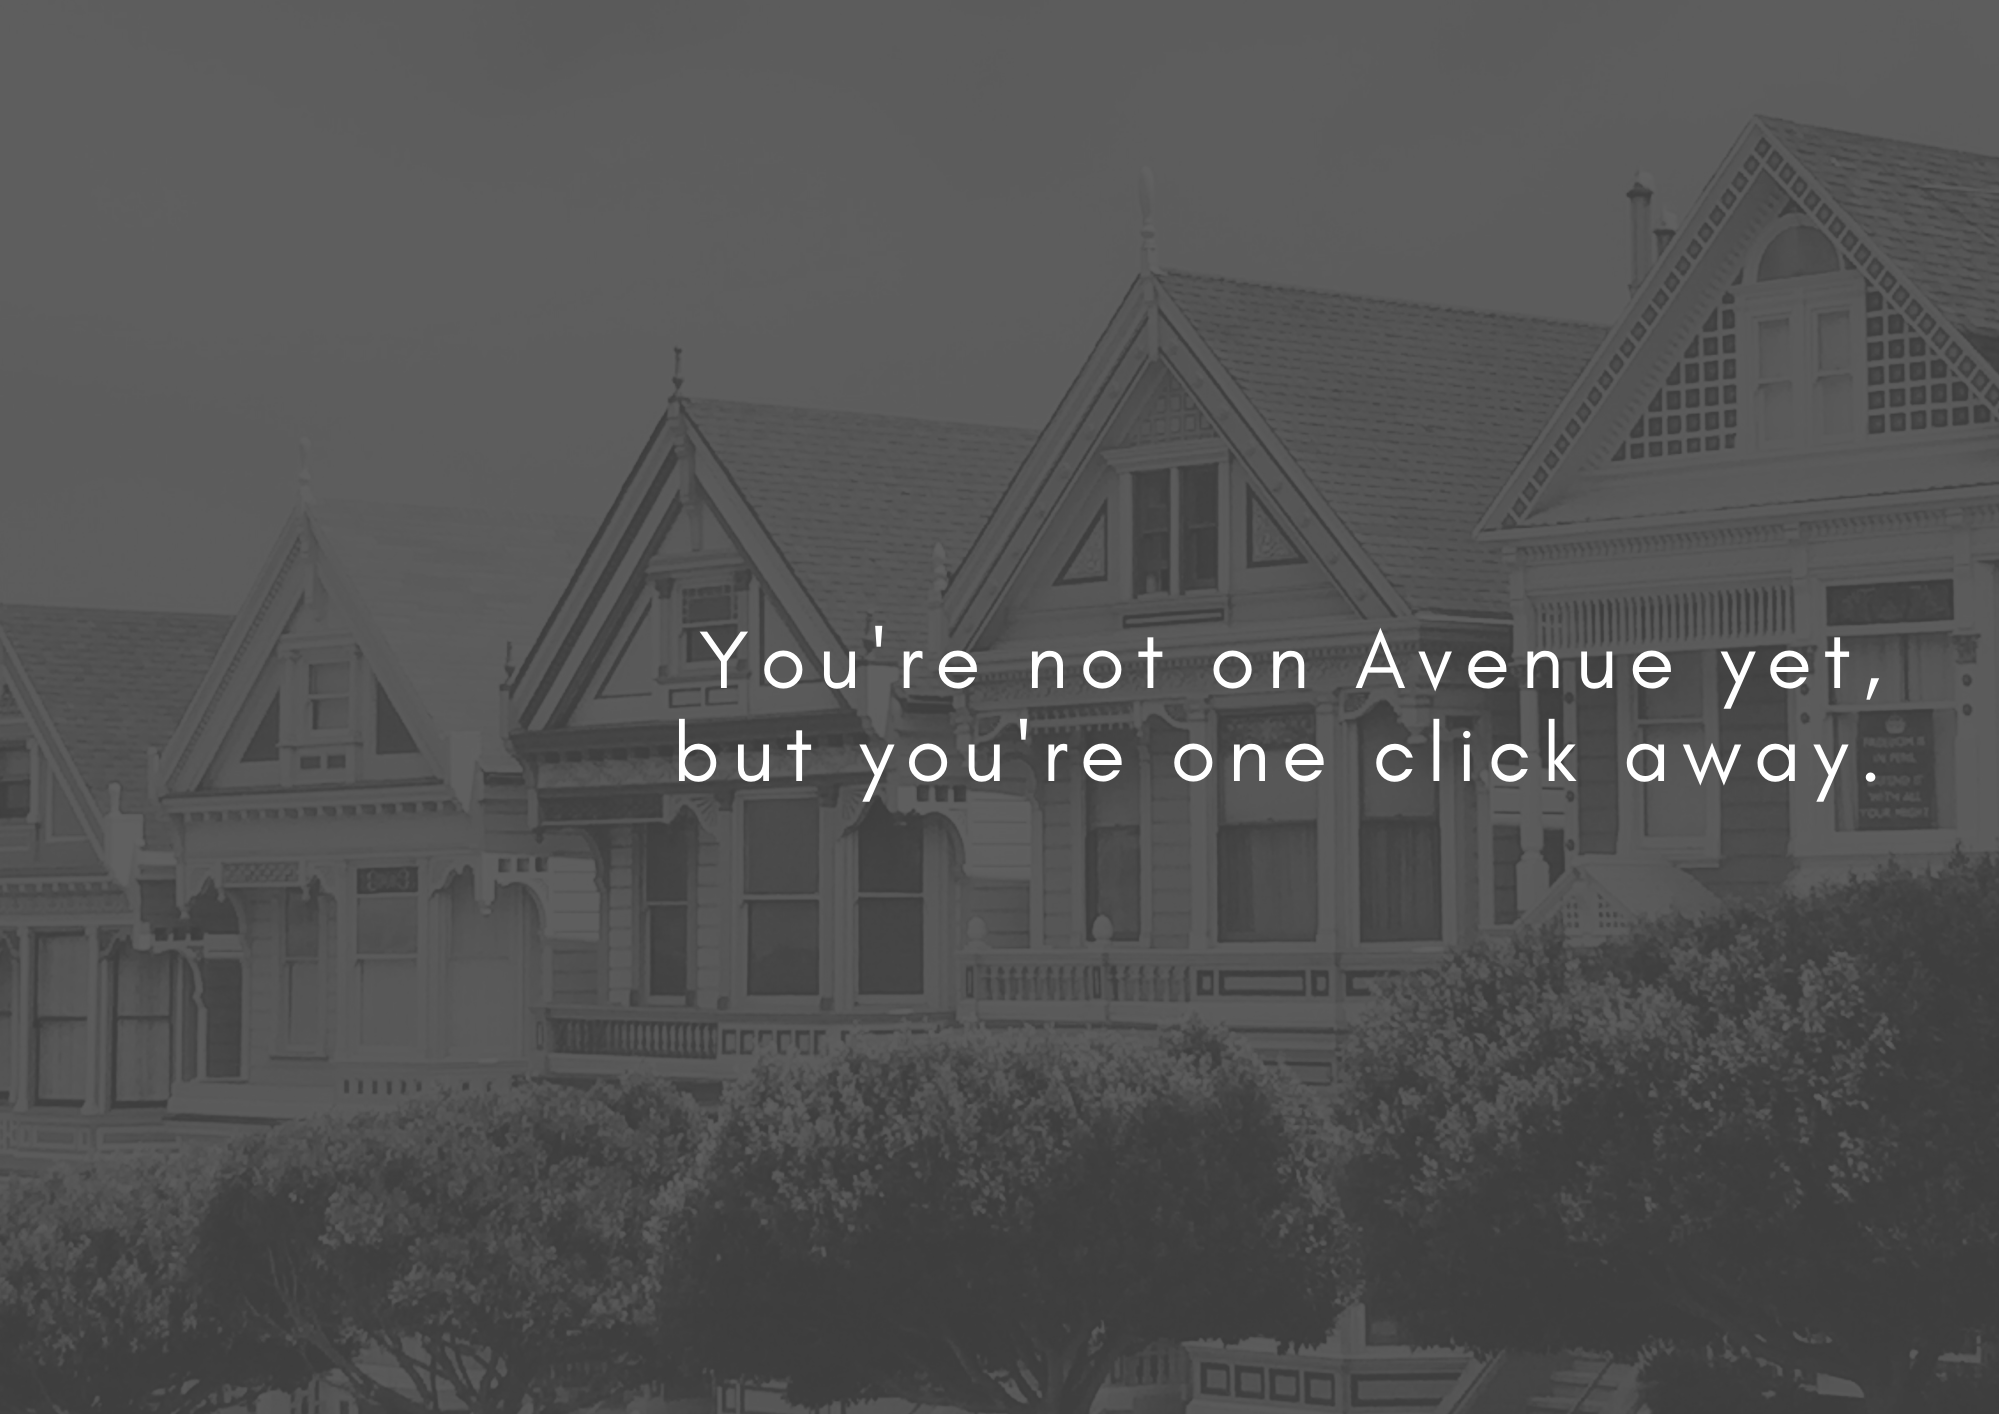
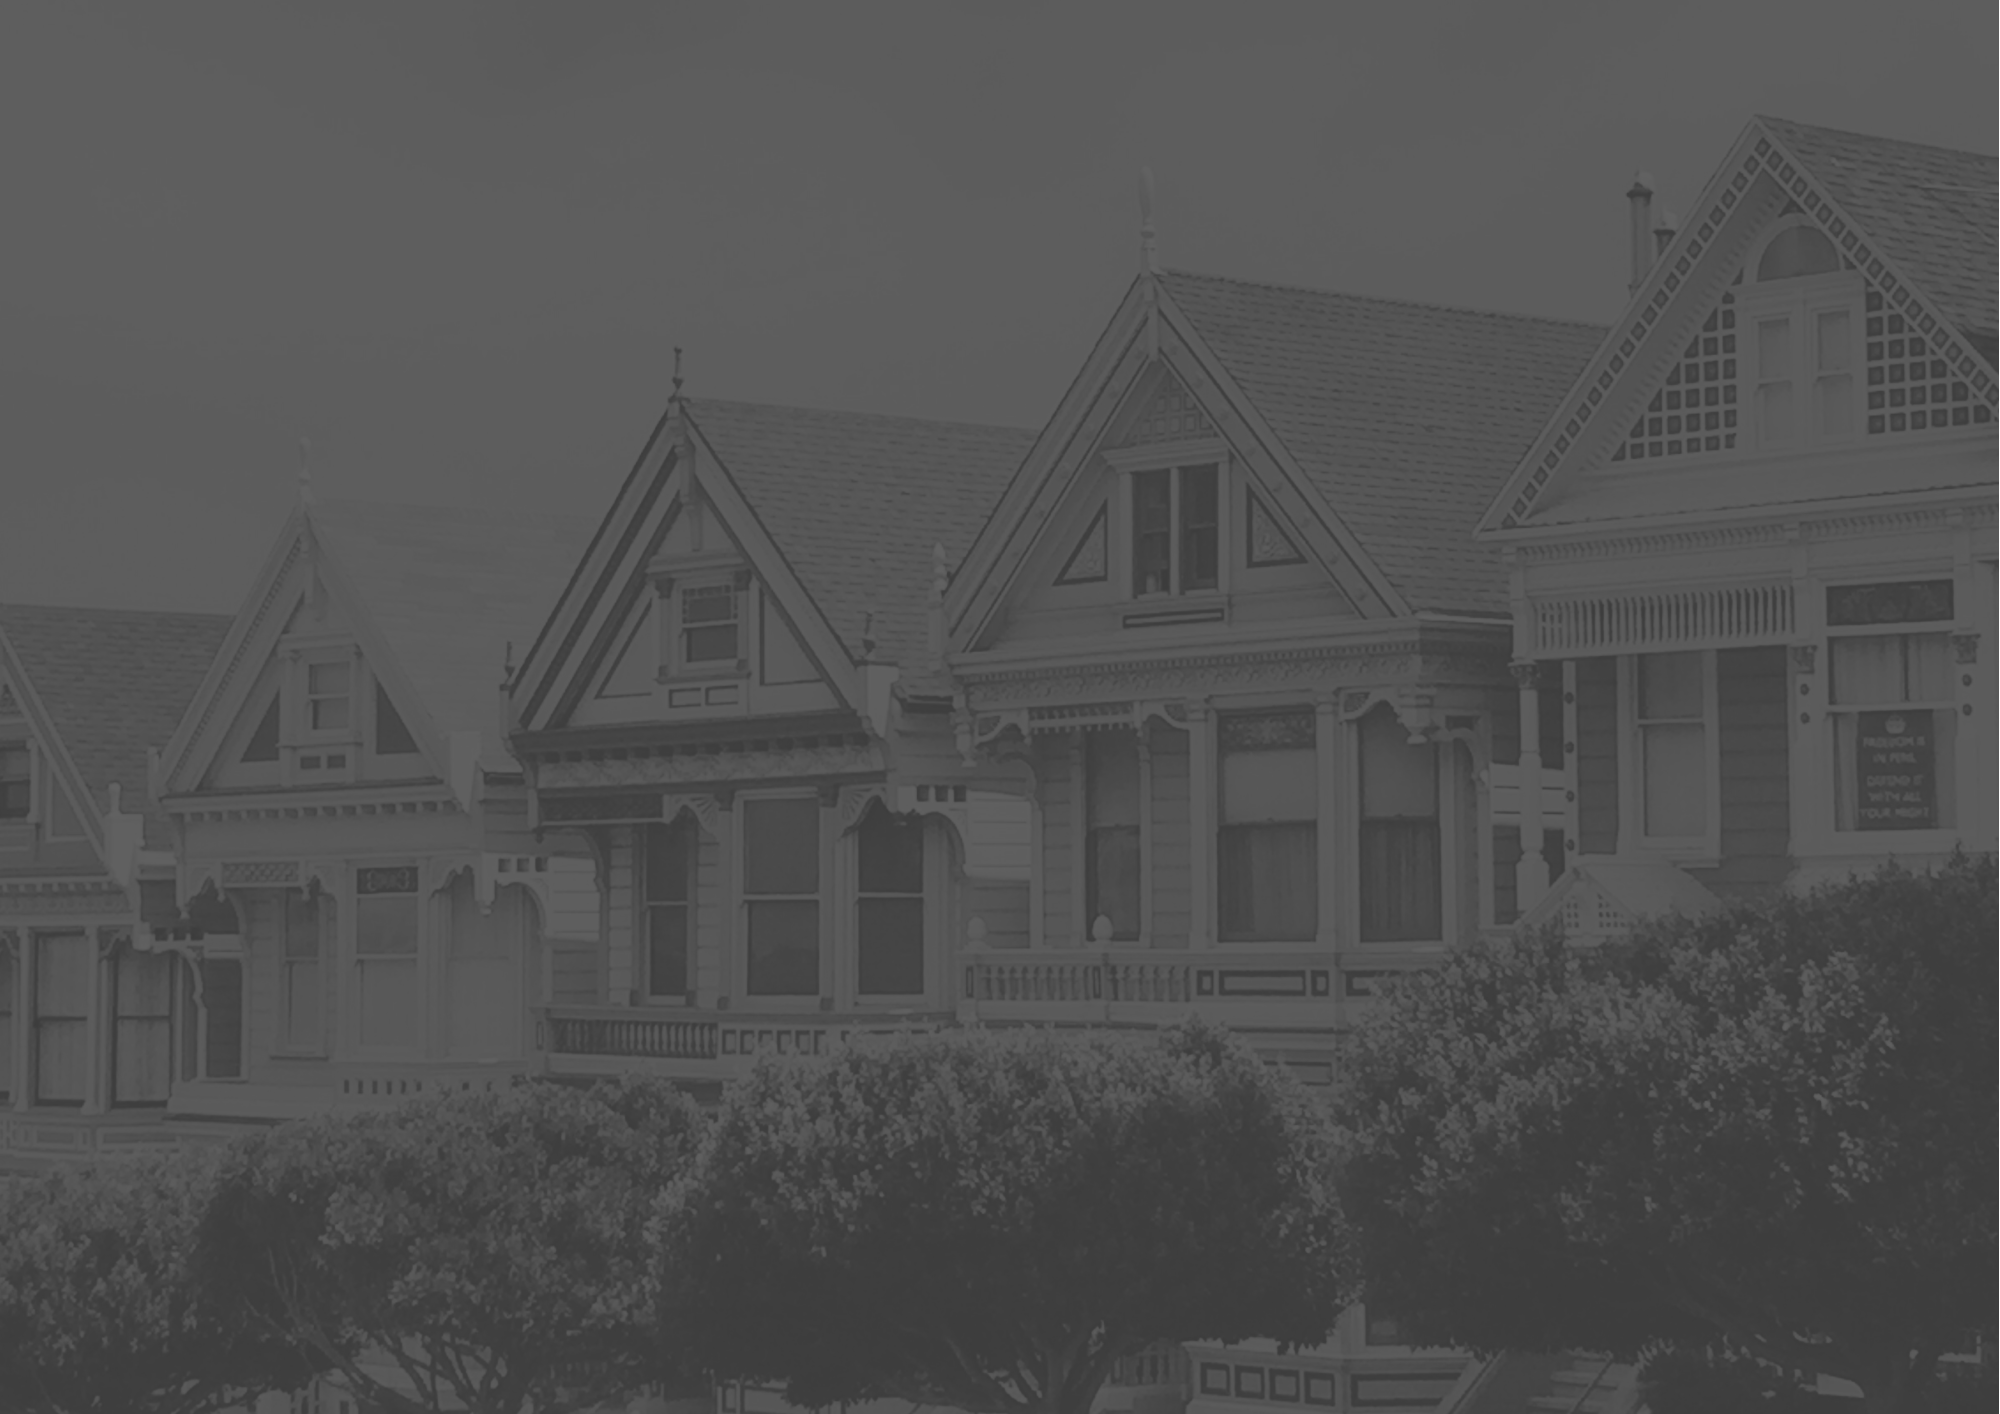
nav bar complete, error message on owner page WIP

diff --git a/client/src/component/Nav.js b/client/src/component/Nav.js
@@ -12,17 +12,17 @@ function Nav() {
                 <span class="navbar-toggler-icon"></span>
             </button>
             <div class="collapse navbar-collapse" id="navbarNav">
-                <ul className="navbar-nav">
+                <ul className="navbar-nav mr-5">
                     {/* <Logo /> */}
                     <NavLogo />
                     <h1 className="text-white m-4">Avenue</h1>
-                    <li className="nav-item active"><Link to="/" className="nav-link">Home</Link></li>
-                    <li className="nav-item"><Link to="/manager" className="nav-link">Manager</Link></li>
-                    <li className="nav-item"><Link to="/owner" className="nav-link">Owner</Link></li>
+                    <li className="nav-item active mt-4"><Link to="/" className="nav-link">Home</Link></li>
+                    <li className="nav-item mt-4"><Link to="/manager" className="nav-link">Manager</Link></li>
+                    <li className="nav-item mt-4"><Link to="/owner" className="nav-link">Owner</Link></li>
                 </ul>
-                <ul className="nav-links">
-                    <li className="float-right"><Facebook /></li>
-                    <li className="float-right"><AuthNav /></li>
+                <ul className="navbar-nav my-2 my-lg-0">
+                    <li className="nav-item"><Facebook /></li>
+                    <li className="nav-item "><AuthNav /></li>
                 </ul>
             </div>
         </nav>

diff --git a/client/src/App.js b/client/src/App.js
@@ -46,11 +46,9 @@ const Home = () => (
 
 const OwnerHome = () => (
   <div>
-    <div className="text-position" id="ownerHomeimg">
-      {/* <img src={notLoggedIn} alt="owner is not logged in" id="ownerHomeimg"/> */}
-        {/* <h1 className="display-1 text-center"><Logo />Avenue</h1> */}
-        <h1>You're not on Avenue yet,</h1>
-        <button className="btn btn-dark">but you're one step away.</button>      
+    <div className="col pt-5 text-center text-light" id="ownerHomeimg">
+        <h2 className="display-2 text-center">You're not on Avenue yet,</h2>
+        <button className="btn btn-secondary btn-lg text-light">but you're one step away.</button>      
     </div>
     <Footer />
   </div>
